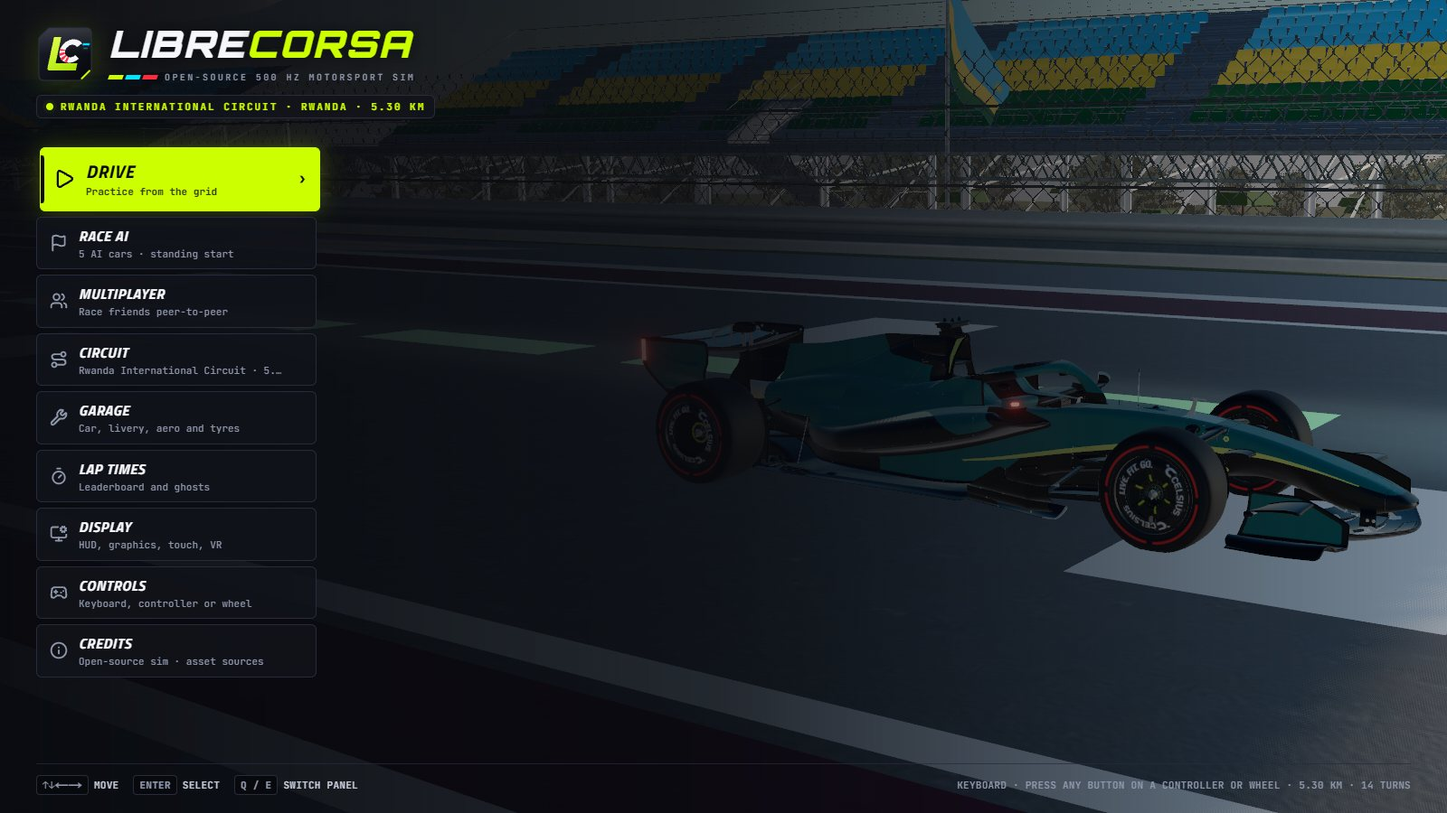
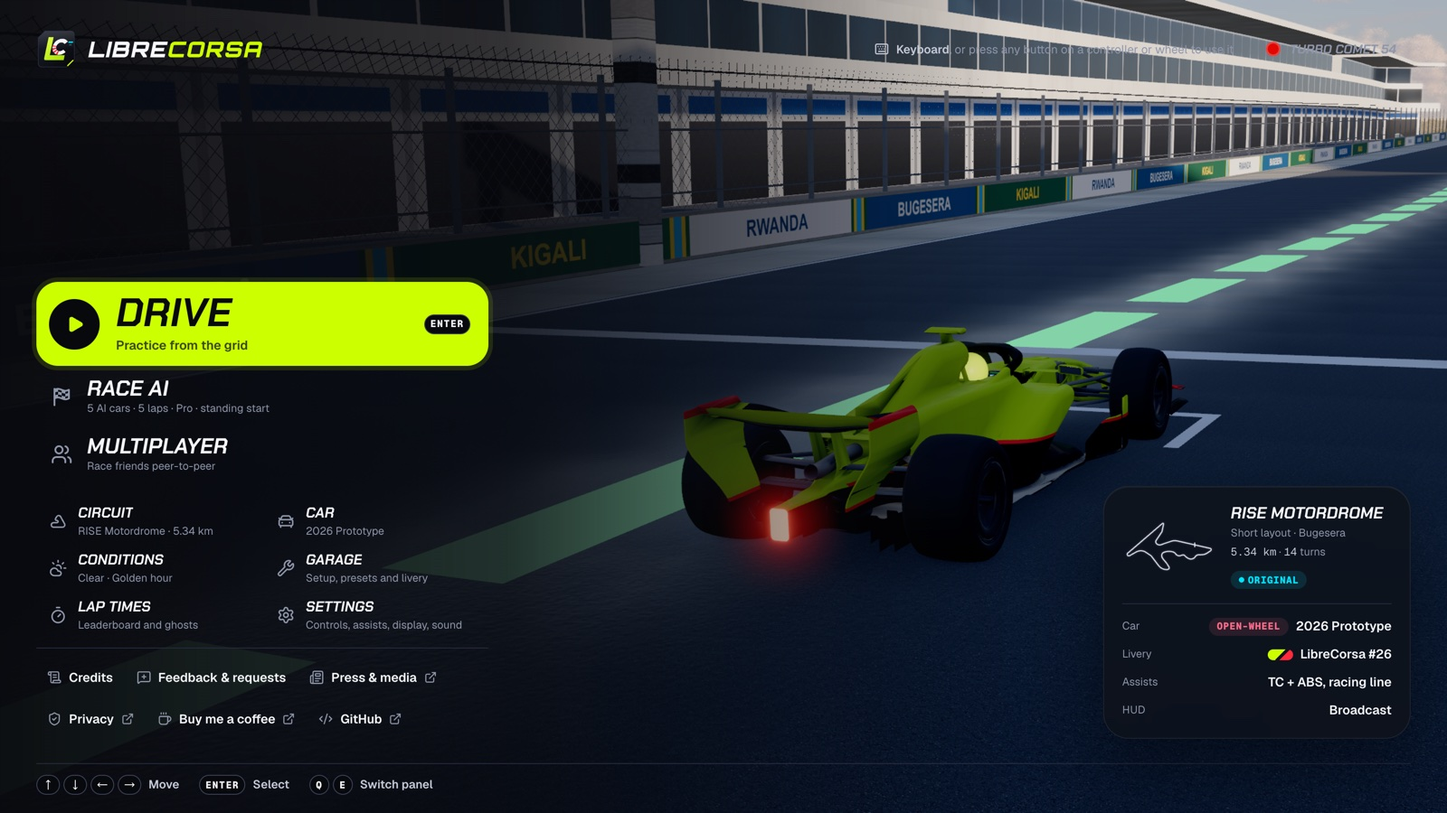
docs(readme): the README matches the game as it ships
The screenshots are of RISE Motordrome and the current 2026 Prototype. The text describes every car on the 6-DOF
rigid body, adds the LC-LMDH and the two Skyline GT-Rs, gives the AI field as up to 11 cars, the weekly challenge's
dated weeks, the open race every 20 minutes, DualSense and the Install app button, marks force feedback on the MOZA
R9 V2 as working, and credits the 2026 car's body, the newer cars and every circuit's author.

diff --git a/README.md b/README.md
@@ -29,20 +29,20 @@
   <a href="https://librecorsa.org/media/librecorsa-trailer.mp4"><img src="docs/media/trailer-poster.jpg" alt="Watch the 40-second LibreCorsa trailer" width="100%" /></a>
 </p>
 
-**LibreCorsa** is an open-source racing simulator that runs entirely in the browser. It has 500 Hz vehicle dynamics, a thermal tyre model, 2026-regulation open-wheelers, GT3 cars, a prototype and a road car. There are fourteen circuits and two hill climbs, AI races, ghosts and replays, and peer-to-peer multiplayer. It works with a keyboard, gamepad, touch screen or a force-feedback wheel. Nothing to install, and no server: it ships as a static site.
+**LibreCorsa** is an open-source racing simulator that runs entirely in the browser. It has 500 Hz vehicle dynamics, a thermal tyre model, a 2026-regulation open-wheeler, GT3 cars, two prototypes, two classic Skyline GT-Rs and a road car. There are fourteen circuits and two hill climbs, AI races, ghosts and replays, peer-to-peer multiplayer and an open online race every 20 minutes. It works with a keyboard, gamepad, touch screen or a force-feedback wheel. Nothing to install: the game is a static site, and an optional Cloudflare Worker runs the online side.
 
 <p align="center">
-  <img src="docs/media/race-grid-shanghai.jpg" alt="Lined up on the grid at Shanghai against five AI cars" width="100%" />
+  <img src="docs/media/race-grid-rise.jpg" alt="Lined up on the grid at RISE Motordrome against five AI cars" width="100%" />
 </p>
 
 <table>
   <tr>
     <td width="33%"><img src="docs/media/title-menu.jpg" alt="Title menu" /></td>
     <td width="33%"><img src="docs/media/on-track.jpg" alt="On track at RISE Motordrome" /></td>
-    <td width="33%"><img src="docs/media/loading-suzuka.jpg" alt="Loading Suzuka" /></td>
+    <td width="33%"><img src="docs/media/loading-rise.jpg" alt="Loading RISE Motordrome" /></td>
   </tr>
   <tr>
-    <td align="center"><sub>Title menu and garage</sub></td>
+    <td align="center"><sub>Title menu</sub></td>
     <td align="center"><sub>RISE Motordrome</sub></td>
     <td align="center"><sub>Every circuit draws itself while it loads</sub></td>
   </tr>
@@ -55,10 +55,10 @@
 ## Features
 
 ### Physics
-- **500 Hz fixed-step integration** (4 × 2 kHz sub-steps), with each wheel riding the real track surface. The default 2026 Prototype's chassis is planar (speed, side-slip and yaw on the local road plane) plus sprung heave, pitch and roll. The 2026 Rigid-Body, the GT3s, the MTRacing 496R and the Suzuki Liana run on a 6-DOF rigid body that carries the spinning wheels' gyroscopic coupling. Their tyres feel the road over the whole contact patch: five ground samples per wheel (centre, both ends, both tread edges) fold into one height and slope, so a seam or a kerb's step edge is rolled over rather than hit at a point, and the road carries a fine ISO 8608 texture (about 0.5 mm RMS) for them to roll over.
-- **Tyres**: a Pacejka-style slip curve with combined slip on a friction ellipse, load sensitivity, carcass relaxation, a load-dependent rolling radius and a pneumatic trail set by the contact patch's length. On the 6-DOF cars the cornering stiffness saturates with load, so the peak slip angle grows under load. Grip follows the inner, middle and outer tread temperatures: a 9-node thermal model (surface, bulk and carcass per band) on the 2026 Prototype, a tread surface over a carcass per band on the 6-DOF cars. Ideal-gas pressure sets carcass stiffness, and the tyres wear. Soft, medium and hard slicks, plus intermediates and full wets that clear water up to a depth and aquaplane past it.
-- **Chassis**: double-wishbone suspension built from its hardpoints, with springs, dampers, bump stops, anti-roll bars and heave elements. On the 6-DOF cars the solver poses each upright for camber, Ackermann and bump steer, and the tyre forces reach the body through the links: roll-centre jacking, anti-dive, anti-squat and anti-lift, and the full load transfer. The 2026 Prototype takes its roll centres from the hardpoints. The race cars have a preload / power / coast limited-slip differential (the 2026 Rigid-Body's entry, mid and exit maps blend with the pedals and the steering), the Rigid-Body and the GT3s have compliant halfshafts, and every car has thermal brakes whose pad friction changes with temperature.
-- **Steering**: on the 6-DOF cars the rack torque is the front tyres' moment about the kingpin axes: braking and drive force at the scrub radius, cornering force at the caster and pneumatic trail, the steered wheels' weight jacking, and the wheels' gyroscopic torque. A parked tyre twists against the road instead of turning freely, and the road texture reaches the rim only through the tyre forces. The 2026 Rigid-Body and the GT3s have hydraulic power steering (the GT3's fades out with speed) and give up a little steering angle under cornering force. The 2026 Prototype sums the same kinds of moment with fixed gains.
+- **500 Hz fixed-step integration** (4 × 2 kHz sub-steps), with each wheel riding the real track surface. Every car runs on a 6-DOF rigid body that carries the spinning wheels' gyroscopic coupling. The tyres feel the road over the whole contact patch: five ground samples per wheel (centre, both ends, both tread edges) fold into one height and slope, so a seam or a kerb's step edge is rolled over rather than hit at a point, and the road carries a fine ISO 8608 texture (about 0.5 mm RMS) for them to roll over.
+- **Tyres**: a Pacejka-style slip curve with combined slip on a friction ellipse, load sensitivity, carcass relaxation, a load-dependent rolling radius and a pneumatic trail set by the contact patch's length. The cornering stiffness saturates with load, so the peak slip angle grows under load. Grip follows the inner, middle and outer tread temperatures, with a tread surface over a carcass in each band. Ideal-gas pressure sets carcass stiffness, and the tyres wear. Soft, medium and hard slicks, plus intermediates and full wets that clear water up to a depth and aquaplane past it.
+- **Chassis**: double-wishbone suspension built from its hardpoints, with springs, dampers, bump stops, anti-roll bars and heave elements. The solver poses each upright for camber, Ackermann and bump steer, and the tyre forces reach the body through the links: roll-centre jacking, anti-dive, anti-squat and anti-lift, and the full load transfer. The race cars have a preload / power / coast limited-slip differential, the R32 JTCC drives all four wheels through a centre coupling, the 2026 Prototype and the GT3s have compliant halfshafts, and every car has thermal brakes whose pad friction changes with temperature.
+- **Steering**: the rack torque is the front tyres' moment about the kingpin axes: braking and drive force at the scrub radius, cornering force at the caster and pneumatic trail, the steered wheels' weight jacking, and the wheels' gyroscopic torque. A parked tyre twists against the road instead of turning freely, and the road texture reaches the rim only through the tyre forces. The 2026 Prototype and the GT3s have hydraulic power steering (the GT3's fades out with speed) and give up a little steering angle under cornering force.
 - **Aero**: ride-height-sensitive wings and floor, altitude-corrected air density, and dirty air behind other cars. 2026 active aero switches between Z-mode (cornering) and X-mode (straights).
 - **Surfaces**: one data table for road, kerb, sausage kerb, run-off, pit lane, grass and gravel, with dry and wet friction, rolling resistance, a bump ripple you feel through the wheel, vibration and whether it counts for track limits. A circuit can override it in its track data. Kerbs rise to a 32 mm crown with a 2 mm ripple.
 - **Weather and time of day**: clear, overcast, light rain, heavy rain, drying and dynamic weather. The water film builds and drains, and the cars dry the racing line first. Six times of day, and the clock can run at up to 60×. On Medium and High graphics a physically based sky with volumetric clouds follows the weather.
@@ -69,10 +69,12 @@
 ### Cars
 | Car | Model | Notes |
 | :-- | :-- | :-- |
-| **2026 Prototype** (default) | Planar chassis + heave / pitch / roll, 4 sprung corners | 1.6 L V6 turbo + 350 kW MGU-K, 4 MJ battery, manual override boost, Z/X-mode aero |
-| **2026 Rigid-Body** | 6-DOF rigid body on the track colliders | The same 350 kW / 4 MJ hybrid; turbo boost that builds with exhaust energy while the MGU-K fills the lag; driver-opened X-mode flaps in every DRS zone, and Overtake Mode earned within 1 s at the detection point; live telemetry channels |
+| **2026 Prototype** (default) | 6-DOF rigid body on the track colliders | 1.6 L V6 turbo + 350 kW MGU-K, 4 MJ battery, manual override boost; turbo boost that builds with exhaust energy while the MGU-K fills the lag; Z/X-mode aero with the flaps opened in every DRS zone, and Overtake Mode earned within 1 s at the detection point; live telemetry channels |
 | **Mercedes-AMG GT3 Evo** | 6-DOF rigid body | 6.2 L NA V8, 6-speed sequential, multi-stage ABS / TC, its own braking-point model. The BMW M4 GT3 Evo drives on its physics |
 | **MTRacing 496R** | 6-DOF rigid body | 2025 prototype: 4.0 L NA V8, rear-wheel drive, 6-speed paddle shift, heave springs, splitter / diffuser / rear-wing aero, TC, three slicks. 20 liveries, a live wheel screen and shift lights. Model, sound and physics from munyuturbo's mod of this car, used with permission |
+| **LC-LMDH** | 6-DOF rigid body | LMDh prototype: twin-turbo V8 with the class's spec hybrid on a 7-speed spec gearbox, rear-wheel drive, power capped at the driveshafts as the regulations set it, TC and no ABS |
+| **Nissan Skyline GT-R R33 JGTC** | 6-DOF rigid body | 1998 GT500: twin-turbo straight six, rear-wheel drive, 6-speed sequential, ride-height aero map. Model, sound and physics from gregsediting's mod of this car, used with permission |
+| **Nissan Skyline GT-R R32 JTCC** | 6-DOF rigid body | 1993 Group A: twin-turbo straight six, four-wheel drive through a centre coupling. Model, sound and physics from gregsediting's mod of this car, used with permission |
 | **Suzuki Liana 1.6** | 6-DOF rigid body | 2002 road car: 1.6 L four, front-wheel drive through an open differential, 5-speed manual, ABS and TC, one street tyre. Physics from alekabul's mod of this car, used with permission |
 
 Each car has its own cockpit, steering wheel and shift lights, plus a multi-layer sound bank (engine, turbo, transmission, shifts, backfires, limiter, tyre skid, TC cut). Interior and exterior sounds switch with the camera.
@@ -83,7 +85,7 @@ Each car has its own cockpit, steering wheel and shift lights, plus a multi-laye
 | **RISE Motordrome** (default; short / Grand Prix lap) | Rwanda | 5.34 / 5.89 km |
 | Chang International Circuit | Thailand | 4.57 km |
 | Okayama International Circuit (GP / Piper / Formula Drift) | Japan | 3.70 / 1.97 / 1.97 km |
-| Red Bull Ring — Spielberg (GP / South / Inner skill course) | Austria | 4.32 / 2.34 / 0.94 km |
+| Red Bull Ring, Spielberg (GP / South / Inner skill course) | Austria | 4.32 / 2.34 / 0.94 km |
 | Automotodrom Grobnik | Croatia | 4.17 km |
 | Motorsport Arena Oschersleben | Germany | 3.69 km |
 | Circuit de Monaco | Monaco | 3.30 km |
@@ -101,14 +103,14 @@ Each car has its own cockpit, steering wheel and shift lights, plus a multi-laye
 | Goodwood (Festival of Speed) | United Kingdom | 1.89 km | 94 m |
 | Borgloh (Osnabrück hill climb) | Germany | 2.02 km | 76 m |
 
-RISE Motordrome is my reading of the circuit planned beside Lake Kidogo at Bugesera, about 1,400 m above sea level: traced on the designers' own aerial renders and built in Blender on the site's real ground by `scripts/rwanda-official/`. Two anticlockwise laps share one model: the short lap (5.34 km, 14 corners, the default) and the Grand Prix lap (5.89 km, 17 corners, 191 m climbed a lap). Chang, Okayama, Spielberg (Red Bull Ring), Grobnik, Oschersleben and Monaco are Assetto Corsa circuits by **Mitja Bonca** (used with permission), converted by `scripts/tracks/port_ac_track.py` with their 3D/2D trees, dynamic tyre grooves, skidmarks, starting lights and trackside semaphores, AI fast/pit lanes, kerbs, surface tables, section names, DRS zones, and TV cameras. Barbagallo and VIR are by **dazzyb2k3**, and Sachsenring, Norisring, Le Mans 1982 and the two hill climbs by **gunnar333**, all used with permission and converted the same way. A hill climb is one timed run from the start line to the finish, one car at a time, so it has no AI or online races. Every circuit is meshopt-compressed (`npm run compress-tracks`) while keeping hidden physics meshes bit-exact, and has a lap-time-optimal racing line for each car class (the hill climbs and Le Mans keep a geometric one for now). Open the sim with `?colliders=1` to see the physics surfaces drawn over the circuit.
+RISE Motordrome is my reading of the circuit planned beside Lake Kidogo at Bugesera, about 1,400 m above sea level: traced on the designers' own aerial renders and built in Blender on the site's real ground by `scripts/rwanda-official/`. Two anticlockwise laps share one model: the short lap (5.34 km, 14 corners, the default) and the Grand Prix lap (5.89 km, 17 corners, 191 m climbed a lap). Chang, Okayama, Spielberg (Red Bull Ring), Grobnik, Oschersleben and Monaco are Assetto Corsa circuits by **Mitja Bonca** (used with permission), converted by `scripts/tracks/port_ac_track.py` with their 3D/2D trees, dynamic tyre grooves, skidmarks, starting lights and trackside semaphores, AI fast/pit lanes, kerbs, surface tables, section names, DRS zones, and TV cameras. Barbagallo and VIR are by **dazzyb2k3**, Sachsenring, Norisring, Le Mans 1982 and the two hill climbs by **gunnar333**, and Istanbul Park by **Enver Bozkaya** (SRTR), all used with permission and converted the same way. Dunsfold Aerodrome is by **ACU**. A hill climb is one timed run from the start line to the finish, one car at a time, so it has no AI or online races. Every circuit is meshopt-compressed (`npm run compress-tracks`) while keeping hidden physics meshes bit-exact, and has a lap-time-optimal racing line for each car class (the hill climbs and Le Mans keep a geometric one for now). Open the sim with `?colliders=1` to see the physics surfaces drawn over the circuit.
 
 ### Racing
-- **Race the AI**: a 5-car field with a standing start behind the lights, traffic and side-by-side racing, and after the flag a cool-down lap, the top three on the podium and a results screen with places gained and your last races. The AI level runs from Rookie to Alien and can be changed from the pause menu. Each car class has a tuning file in [`public/ai`](public/ai), with per-circuit and per-section overrides. The AI learns braking points and apex speeds corner by corner. In the rain it fits intermediates or full wets and plans its corner speeds and braking on the wet grip.
+- **Race the AI**: up to 11 AI cars (five by default) with a standing start behind the lights, traffic and side-by-side racing, and after the flag a cool-down lap, the top three on the podium and a results screen with places gained and your last races. The AI level runs from Rookie to Alien and can be changed from the pause menu. Each car class has a tuning file in [`public/ai`](public/ai), with per-circuit and per-section overrides. The AI learns braking points and apex speeds corner by corner. In the rain it fits intermediates or full wets and plans its corner speeds and braking on the wet grip.
 - **Split gaps**: the gap to the car ahead and behind at every sector split.
 - **Practice tools**: lap and sector timing, a live delta, a ghost of your best lap (saved in your browser, and it can be exported and imported), a 90-second instant replay with free cameras, and a lap summary.
 - **Multiplayer**: private rooms, peer-to-peer over WebRTC. Host a room and send the link, or join with a friend's 6-character code; a manual offer/answer copy-paste works with no server at all, and browser tabs on the same machine can race each other. On librecorsa.org the site's own room server pairs the players and hands out relay servers for networks that block a direct link; without it the public PeerJS broker pairs them. Other players' cars are sent 60 times a second and predicted to the present from their newest packet, timed by the fastest trip measured, so you touch a car where you see it; contact with them is soft and switches off while their packets are stale. A car that goes quiet keeps going for a second, turns see-through, and disappears until it is heard from again. Everyone in a room needs the same version of the game.
-- **Weekly challenge**: one circuit and car for everyone each week, with the assists and realism fixed and a dry track. It has its own lap board. Each round opens with the Suzuki Liana at Dunsfold, then every circuit comes up with a different car than the round before.
+- **Weekly challenge**: one circuit and car for everyone each week, with the assists and realism fixed and a dry track. It has its own lap board. The weeks follow a dated list up to October 2027, and a week can name the car it's driven in.
 - **Open races**: under Multiplayer, a race on the week's circuit and car (RISE Motordrome in the Dunsfold week, which is a time trial only) starts every 20 minutes for whoever has joined, with the week's fastest on pole (alone, you race the AI). Cars are ghosts on the opening lap, and after it a car that is stopped, going the wrong way, rejoining the track or ramming another passes through the others, as does a car that has taken the flag.
 - **Race results**: the race server (or a room's host) sends one official result for everyone. Open races are kept, and the Open races card shows the week's top five by wins and podiums and your own record. A result counts for your name once you've claimed it with a lap on the board.
 - **Online leaderboard**: one board per circuit and car. Every driver appears once, with their fastest lap and the assists, realism and surface it was driven with, and the board can be narrowed to no-assist, full-realism or wet laps. New personal bests are posted by themselves, and any lap on the board can be raced as a ghost. Without an online side, the board lists your own best laps.
@@ -119,8 +121,8 @@ The online side (rooms, boards, scheduled races) is a Cloudflare Worker in [`clo
 
 ### Hardware
 - **Wheels**: steering, pedals and buttons through the browser for any wheel. Force feedback straight from the browser over WebHID for bases that use the standard HID PID protocol, or through a local bridge on Windows. See [Wheels and force feedback](#wheels-and-force-feedback) for what has been tested.
-- **Gamepads**: Xbox and PlayStation, with rumble and trigger rumble.
-- **Touch**: on-screen pedals and steering, or tilt to steer.
+- **Gamepads**: Xbox and PlayStation, with rumble and trigger rumble. A DualSense paired over WebHID (Chrome or Edge) also gets adaptive triggers, haptics and its lights.
+- **Touch**: on-screen pedals and steering, or tilt to steer. On a phone or tablet the title screen offers to install the game, so it opens full screen from the Home Screen.
 - **Telemetry out**: 60 Hz UDP JSON through the bridge, for dashboards and motion rigs. The bridge relays it with or without a wheel, on Windows, macOS or Linux; the packet format is `TelemetryOutPacket` in `src/lib/input/telemetry-out.ts`.
 - **Setup wizard**: picks your device and tunes steering, pedals and force feedback on first launch.
 - **VR (work in progress)**: WebXR headsets (Quest Browser, or Chrome with SteamVR / OpenXR), from the Display panel. Expect rough edges.
@@ -138,7 +140,7 @@ Only what the maintainer has driven is marked tested. Everything else is what th
 
 | Wheel | Browser (WebHID) | Bridge (Windows) | Status |
 | :-- | :-- | :-- | :-- |
-| MOZA R9 V2 + KS | Connects and steers | Expected | **Tested: connects. Force feedback not yet confirmed** |
+| MOZA R9 V2 + KS | Works | Expected | **Tested: force feedback works** |
 | Other MOZA bases, Simucube 2, VRS, OpenFFBoard, other HID PID bases | Expected | Expected | Untested |
 | Simagic, Cammus, Asetek, Fanatec DD (PC mode), Thrustmaster DD | Unknown: without HID PID force feedback the page switches to the bridge | Expected | Untested |
 | Logitech G25, G27, G29, Driving Force GT | Expected: the classic Logitech commands, rev LEDs on the G27 and G29 | Expected | Untested |
@@ -157,7 +159,7 @@ Drove one of these, or a wheel that isn't listed? A [wheel report](https://githu
 The physics is checked against data, not just tuned by feel, and the evidence is generated from the simulator's own code so anyone can reproduce it ([full page](docs/physics/README.md), `npm run physics:report`).
 
 - **The GT3 against a real car.** The Mercedes-AMG GT3 runs the same manoeuvres as reference GT3 Evo MoTeC logs: sustained cornering, braking and full-throttle g by speed, gearing and the understeer gradient. Every point sits within −13 % to +17 % of the logs, and `npm run verify` fails the build if one leaves its tolerance.
-- **Tyre curves for the 2026 Prototype, the 2026 Rigid-Body and the GT3**: force against slip angle at four loads, grip against load, temperature and pressure.
+- **Tyre curves for the 2026 Prototype and the GT3**: force against slip angle at four loads, grip against load, temperature and pressure.
 - **Honest gaps**: the 2026 Prototype corners 14 % below the cornering-limit table in its reference data at 86 km/h, where it runs out of front grip, and 4–17 % above it from 144 km/h up. The page says so.
 - **Frame-rate independence**: physics runs in fixed 2 ms steps (500 Hz, four 2 kHz substeps), so the same three-second launch ends within 0.3 km/h and 0.2 m at 30, 60, 144 or 240 fps.
 
@@ -202,10 +204,10 @@ npm run build            # static export into ./out
 | Script | What it does |
 | :-- | :-- |
 | `npm run typecheck` | `tsc --noEmit` over the whole project |
-| `npm run verify` | Every `scripts/verify-*.ts` suite (physics, 2026 Rigid-Body, GT3, input, lap tools, race session, realism, weather, AI tuning, telemetry out, WebHID FFB) |
+| `npm run verify` | Every `scripts/verify-*.ts` suite (physics, every car, input, lap tools, race session and race server, realism, weather, AI tuning, netcode, telemetry out, WebHID FFB and DualSense) |
 | `npm run verify:laps` | Slow: player-style laps for every car and assist preset at full pace |
 | `npm run physics:report` | Regenerate the [physics validation page](docs/physics/README.md): tyre curves, the GT3 against MoTeC logs, frame-rate checks |
-| `npm run race:headless` | A full-physics AI race without rendering, faster than real time, with a results table. `-- --track suzuka --car amg-gt3 --weather heavy_rain --sweep skill` |
+| `npm run race:headless` | A full-physics AI race without rendering, faster than real time, with a results table. `-- --track rwanda_official --car amg-gt3 --weather heavy_rain --sweep skill` |
 | `npm run compress-tracks` | Meshopt-compress the circuit GLBs and check the physics meshes are unchanged |
 | `npm run ffb` | Local force-feedback (Windows) and telemetry bridge. Without a wheel, or with `-- --telemetry-only`, it relays telemetry only |
 | `npm run upload-hosted -- <paths>` | Upload hosted-only cars or circuits to R2 (see [What's in the repository](#whats-in-the-repository)) |
@@ -220,7 +222,7 @@ A clone carries **RISE Motordrome** and the **2026 prototype car** (both version
 To add your own car, see **[Porting a car](docs/PORTING-CARS.md)**. To publish a hosted car or circuit, upload its folder with `npm run upload-hosted -- public/cars/<id>` (car models go up compressed), then push to `main` so the edge cache picks it up.
 
 ### Deployment
-Every push to `main` runs typecheck and the verify suites, then builds `./out` and deploys it to Cloudflare at [librecorsa.org](https://librecorsa.org/) (`.github/workflows/deploy-pages.yml`, `wrangler.jsonc`). The old GitHub Pages address, `khazp.github.io/librecorsa/`, serves a redirect page that keeps old links working and carries a returning player's saved settings, setups and ghost laps over (`cloudflare/old-site-redirect.html`, `cloudflare/worker.js`). Cloudflare's asset store takes files up to 25 MiB, so CI moves anything bigger into the `librecorsa-assets` R2 bucket; the hosted-only cars and circuits live there too, and the Worker serves both at the same URL. Hosting costs nothing.
+Every push to `main` runs typecheck and the verify suites, then builds `./out` and deploys it to Cloudflare at [librecorsa.org](https://librecorsa.org/) (`.github/workflows/deploy-pages.yml`, `wrangler.jsonc`). The old GitHub Pages address, `khazp.github.io/librecorsa/`, serves a redirect page that keeps old links working and carries a returning player's saved settings, setups and ghost laps over (`cloudflare/old-site-redirect.html`, `cloudflare/worker.js`). Cloudflare's asset store takes files up to 25 MiB, so CI moves anything bigger into the `librecorsa-assets` R2 bucket; the hosted-only cars and circuits live there too, and the Worker serves both at the same URL. Hosting runs on Cloudflare startup credits until March 2027.
 
 ---
 
@@ -228,10 +230,10 @@ Every push to `main` runs typecheck and the verify suites, then builds `./out` a
 
 - **Code** is under the [MIT License](LICENSE).
 - **3D models and audio** are for non-commercial, personal and educational use. Each one keeps its own license. This repository carries only RISE Motordrome and the 2026 prototype's model and sound; the rest are served on librecorsa.org for playing there.
-- **Cars**: the 2026 car model is by **DeX** ([CC BY 4.0](https://skfb.ly/pKNCK)), the Mercedes-AMG GT3 Evo by **Vecarz** ([CC BY-NC-SA 4.0](https://sketchfab.com/3d-models/mercedes-amg-gt3-wwwvecarzcom-6a3f7e3455064721b74b7f0b66427a07)), and the BMW M4 GT3 Evo by **Ddiaz Design** ([CC BY-NC-SA 4.0](https://sketchfab.com/3d-models/2025-bmw-m4-gt3-evo-g82-113f83dd87064697a5ec2511d280b9d5)).
-- **Circuits**: Chang International Circuit, Okayama International Circuit, Spielberg (Red Bull Ring), Automotodrom Grobnik, Oschersleben and Circuit de Monaco are by **Mitja Bonca** (used with permission).
+- **Cars**: the 2026 Prototype's body is by **[Qvist Designs](https://qvistdesigns.framer.website/)** (CC BY 4.0), with the steering wheel from **DeX**'s AM26 model ([CC BY 4.0](https://skfb.ly/pKNCK)) and 2025 Pirelli tyres by **Purple Sector**. The Mercedes-AMG GT3 Evo is by **Vecarz** ([CC BY-NC-SA 4.0](https://sketchfab.com/3d-models/mercedes-amg-gt3-wwwvecarzcom-6a3f7e3455064721b74b7f0b66427a07)), the BMW M4 GT3 Evo by **Ddiaz Design** ([CC BY-NC-SA 4.0](https://sketchfab.com/3d-models/2025-bmw-m4-gt3-evo-g82-113f83dd87064697a5ec2511d280b9d5)), and the LC-LMDH's body by **kilianhoffmann13** ([CC BY 4.0](https://sketchfab.com/models/d786aa263a804254aa92543dda11dba0)). The MTRacing 496R is by **munyuturbo**, the two Skyline GT-Rs by **[gregsediting](https://www.patreon.com/gregsediting)**, and the Suzuki Liana's physics by **alekabul**, all used with permission.
+- **Circuits**: Chang International Circuit, Okayama International Circuit, Spielberg (Red Bull Ring), Automotodrom Grobnik, Oschersleben and Circuit de Monaco are by **Mitja Bonca**, Barbagallo and VIR by **dazzyb2k3**, Sachsenring, Norisring, Le Mans 1982, Goodwood and Borgloh by **gunnar333**, and Istanbul Park by **Enver Bozkaya** (SRTR), all used with permission. Dunsfold Aerodrome is by **ACU**.
 - **RISE Motordrome**: the circuit, its buildings, stands and props are the project's own, built by `scripts/rwanda-official/` and licensed under [CC BY-NC-SA 4.0](public/tracks/rwanda_official/LICENSE.md): port it or build on it with credit, non-commercially, under the same licence. Its trees are the acacia by **evolveduk** and the shrub by **Natural_Disbuster (lemedesign)**, both CC BY 4.0.
-- **Rights holders**: if you made a model, texture, sound or other asset used here and want it credited, corrected or removed, open a [**rights / takedown request**](https://github.com/KhazP/librecorsa/issues/new?template=takedown-request.yml) — it will be fixed or removed from the live site, usually within 7 days.
+- **Rights holders**: if you made a model, texture, sound or other asset used here and want it credited, corrected or removed, open a [**rights / takedown request**](https://github.com/KhazP/librecorsa/issues/new?template=takedown-request.yml). It will be fixed or removed from the live site, usually within 7 days.
 
 > [!CAUTION]
 > **No Official Cryptocurrency:** LibreCorsa has no official token or cryptocurrency, and is not related to any third-party actors trying to profit off of this repo. Any coin on crypto sites using the LibreCorsa name, logo, or repository link is unauthorized and unaffiliated with the developer.
